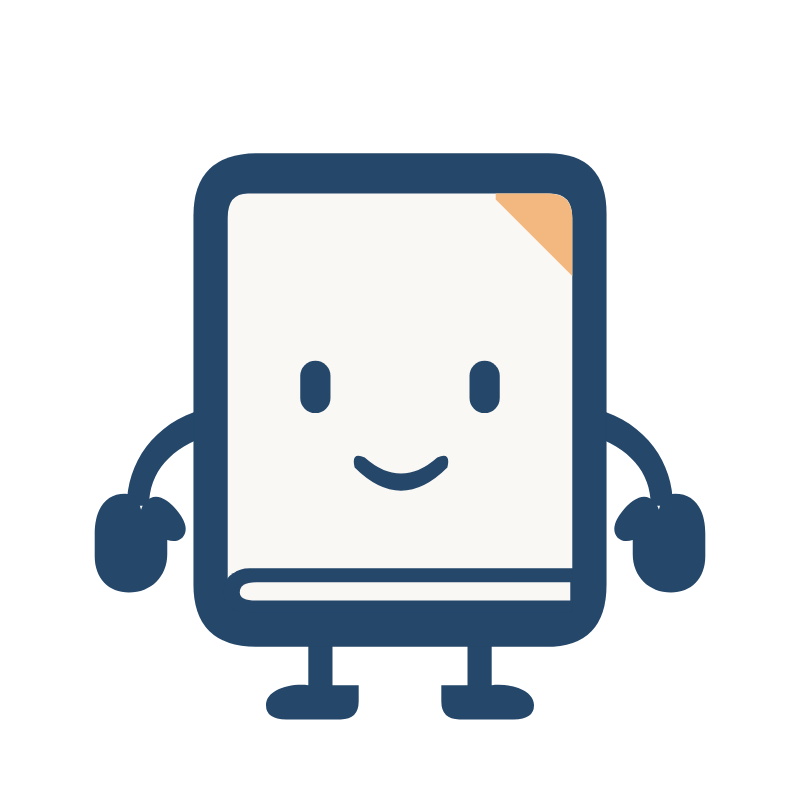
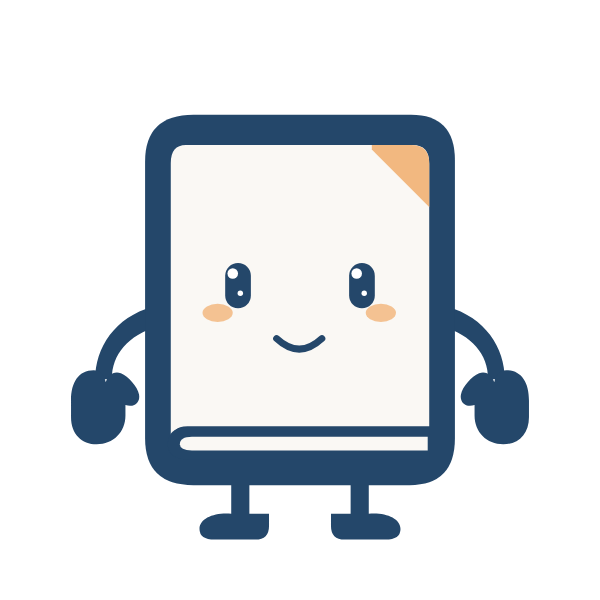
feat(brand): add expressive Piko mascot poses and guidelines

diff --git a/Docs/Brand/Mascot/Piko-Guidelines.md b/Docs/Brand/Mascot/Piko-Guidelines.md
@@ -1,0 +1,51 @@
+# Karakter Maskot Dyscovery: Piko
+
+**Piko** adalah karakter pendamping anak pada antarmuka mode siswa Dyscovery. Piko dirancang untuk memberikan rasa aman, menemani anak selama persiapan dan latihan membaca, serta mengapresiasi partisipasi mereka tanpa menghakimi.
+
+---
+
+## 1. Identitas & Nilai Karakter
+
+- **Nama:** Piko (diambil dari konsep *pocket book* / buku saku yang mungil dan bersahabat).
+- **Peran:** Teman belajar yang memandu (*learning buddy*), bukan guru yang menguji atau figur yang menilai benar/salah.
+- **Prinsip Ekspresi:**
+  - **Non-judgmental:** Tidak memiliki ekspresi sedih, kecewa, menangis, kaget, atau marah saat anak berhenti atau salah membaca.
+  - **Bebas Distraksi:** Piko **TIDAK aktif dan disembunyikan** dari area stimulus ketika tugas rekaman membaca sedang berlangsung.
+
+---
+
+## 2. Palet Warna & Anatomi
+
+- **Sampul & Anggota Badan:** Biru tinta `#24476A` (tebal, membulat, ramah).
+- **Halaman Wajah:** Putih hangat `#FAF8F4`.
+- **Aksen Lipatan Halaman:** Aprikot `#F2B880` di pojok kanan atas (mengikat visual dengan logo utama Dyscovery).
+- **Mata & Mulut:** Biru tinta `#24476A`.
+
+---
+
+## 3. Aset 6 Pose Fungsional
+
+Semua file siap pakai telah tersedia di folder web publik: `C:\Dyscovery\public\mascot\`.
+
+| File SVG | File PNG | Nama Pose | Penggunaan pada Web / UI |
+|---|---|---|---|
+| `piko-wave.svg` | `piko-wave.png` | **1. Menyapa (Wave)** | Layar sambutan mode siswa sebelum asesmen dimulai. |
+| `piko-guide.svg` | `piko-guide.png` | **2. Mengarahkan (Guide)** | Layar uji mikrofon dan simulasi tombol latihan. |
+| `piko-listen.svg` | `piko-listen.png` | **3. Menyimak Mic (Listen)** | Layar soundcheck uji coba suara mic anak. |
+| `piko-rest.svg` | `piko-rest.png` | **4. Menunggu (Rest)** | Saat proses unggah audio, jeda guru, atau sistem memproses. |
+| `piko-call-teacher.svg` | `piko-call-teacher.png` | **5. Panggil Guru (Call)** | Saat kendala teknis (mic error / internet putus / minta bantuan). |
+| `piko-cheer.svg` | `piko-cheer.png` | **6. Apresiasi (Cheer)** | Layar penutup: *"Hebat sudah mencoba! Panggil Bu/Pak Guru ya."* |
+| `mascot-master.svg` | `mascot-master.png` | **Master Netral** | Pose default untuk ikon, avatar siswa, atau referensi desain. |
+
+---
+
+## 4. Panduan Penempatan pada UI (Frontend)
+
+1. **Jalur Akses di Kode Next.js:**
+   ```tsx
+   <img src="/mascot/piko-wave.svg" alt="Piko menyapa" width={160} height={170} />
+   ```
+2. **Ukuran Ideal:**
+   - Desktop: Tinggi 160–200 px di samping teks dialog instruksi.
+   - Mobile: Tinggi 110–130 px di atas card instruksi agar tidak memakan ruang tombol.
+3. **Aksesibilitas (A11y):** Berikan atribut `alt="Piko"` atau `aria-hidden="true"` jika teks instruksi di sampingnya sudah dibacakan oleh screen reader.
